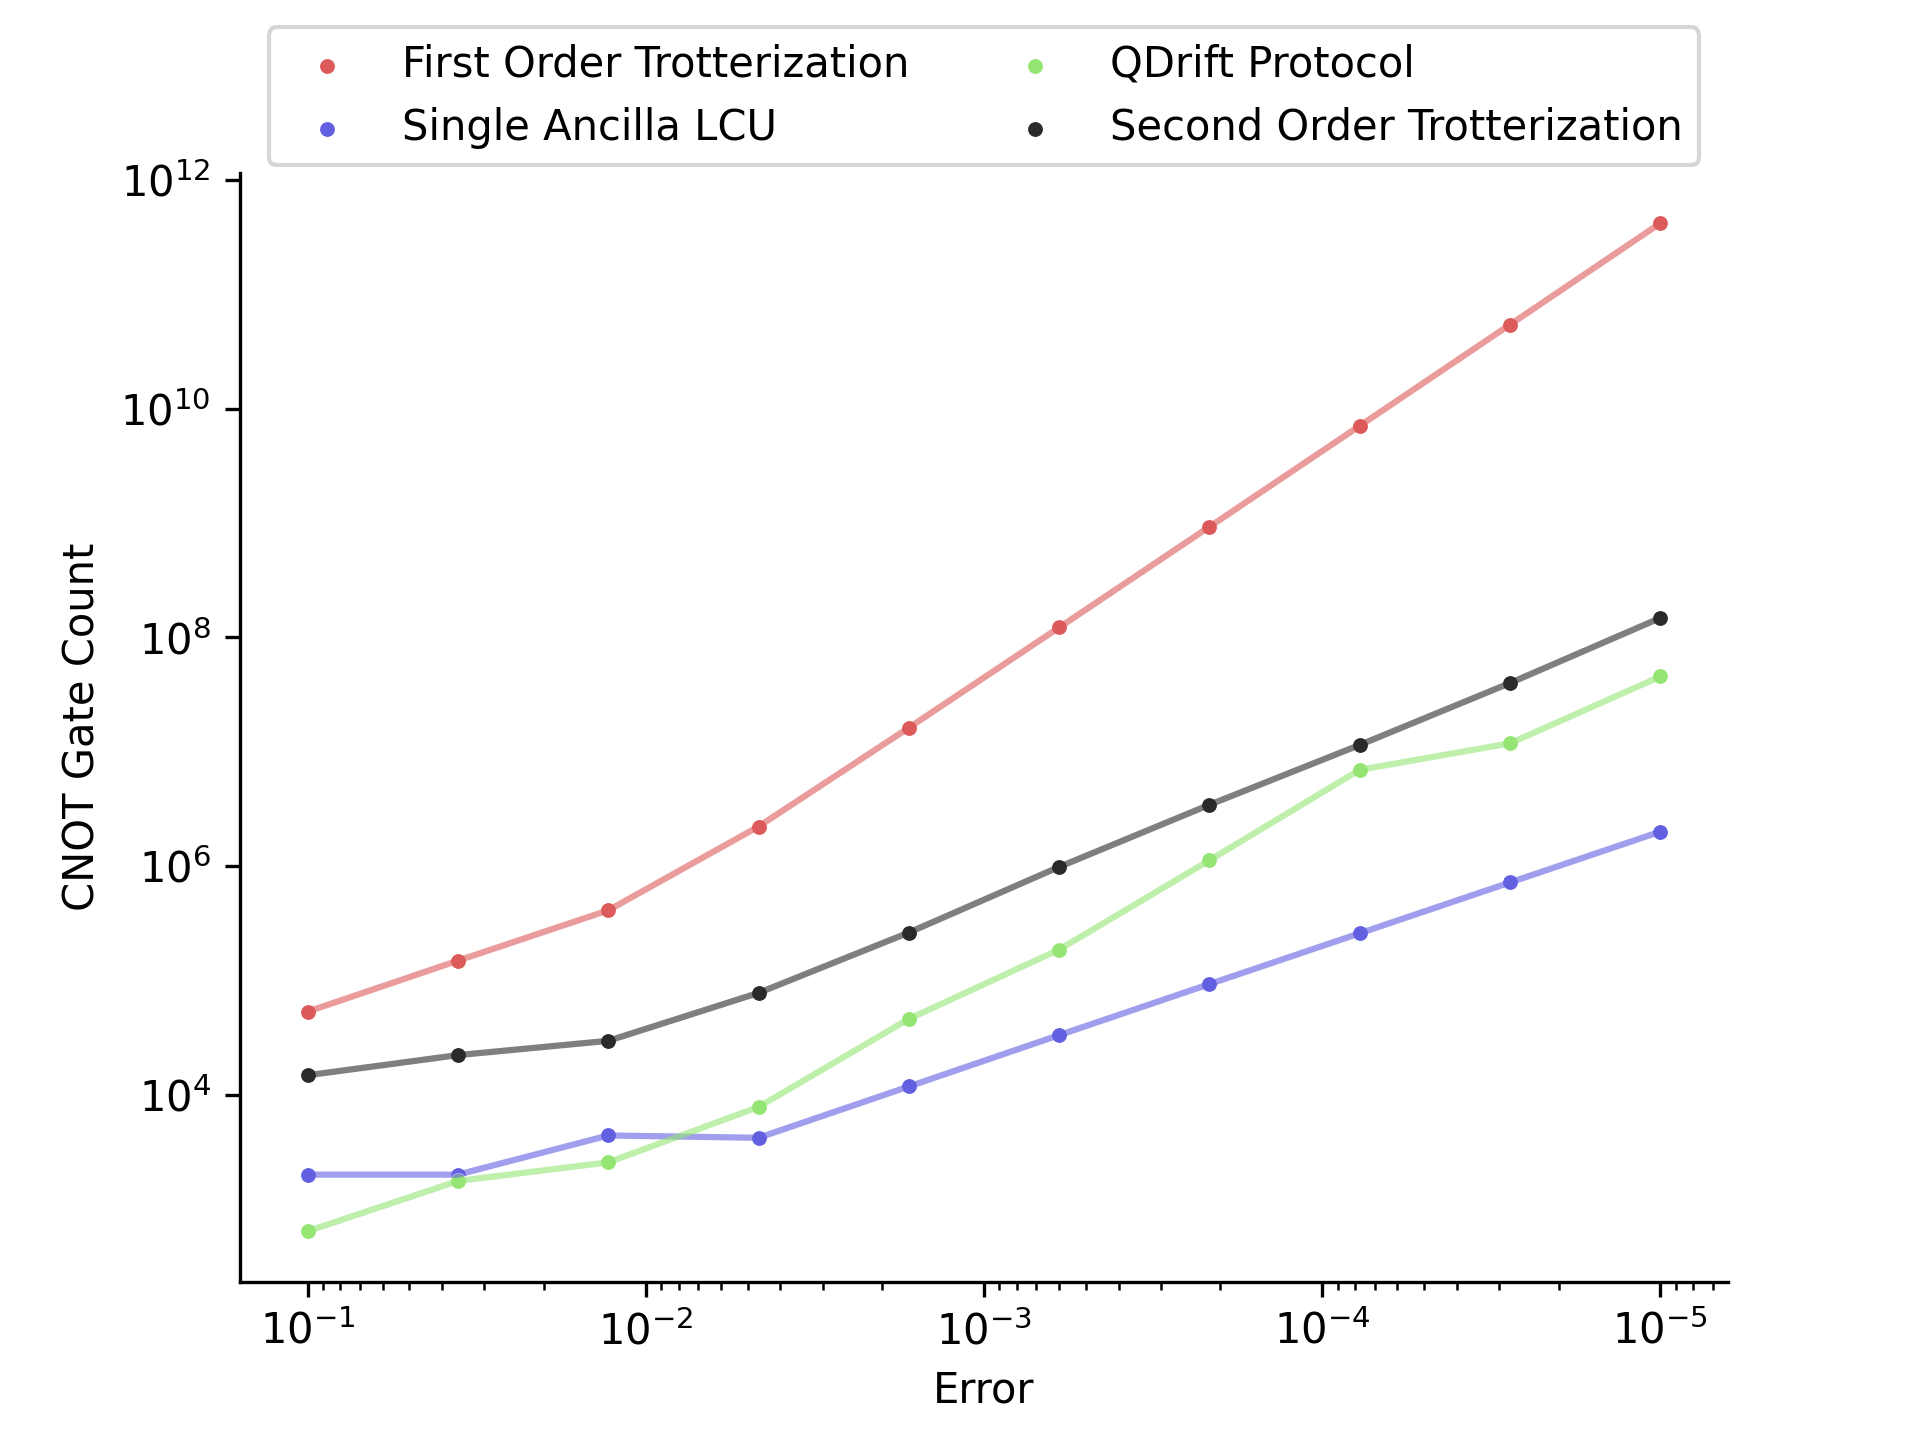
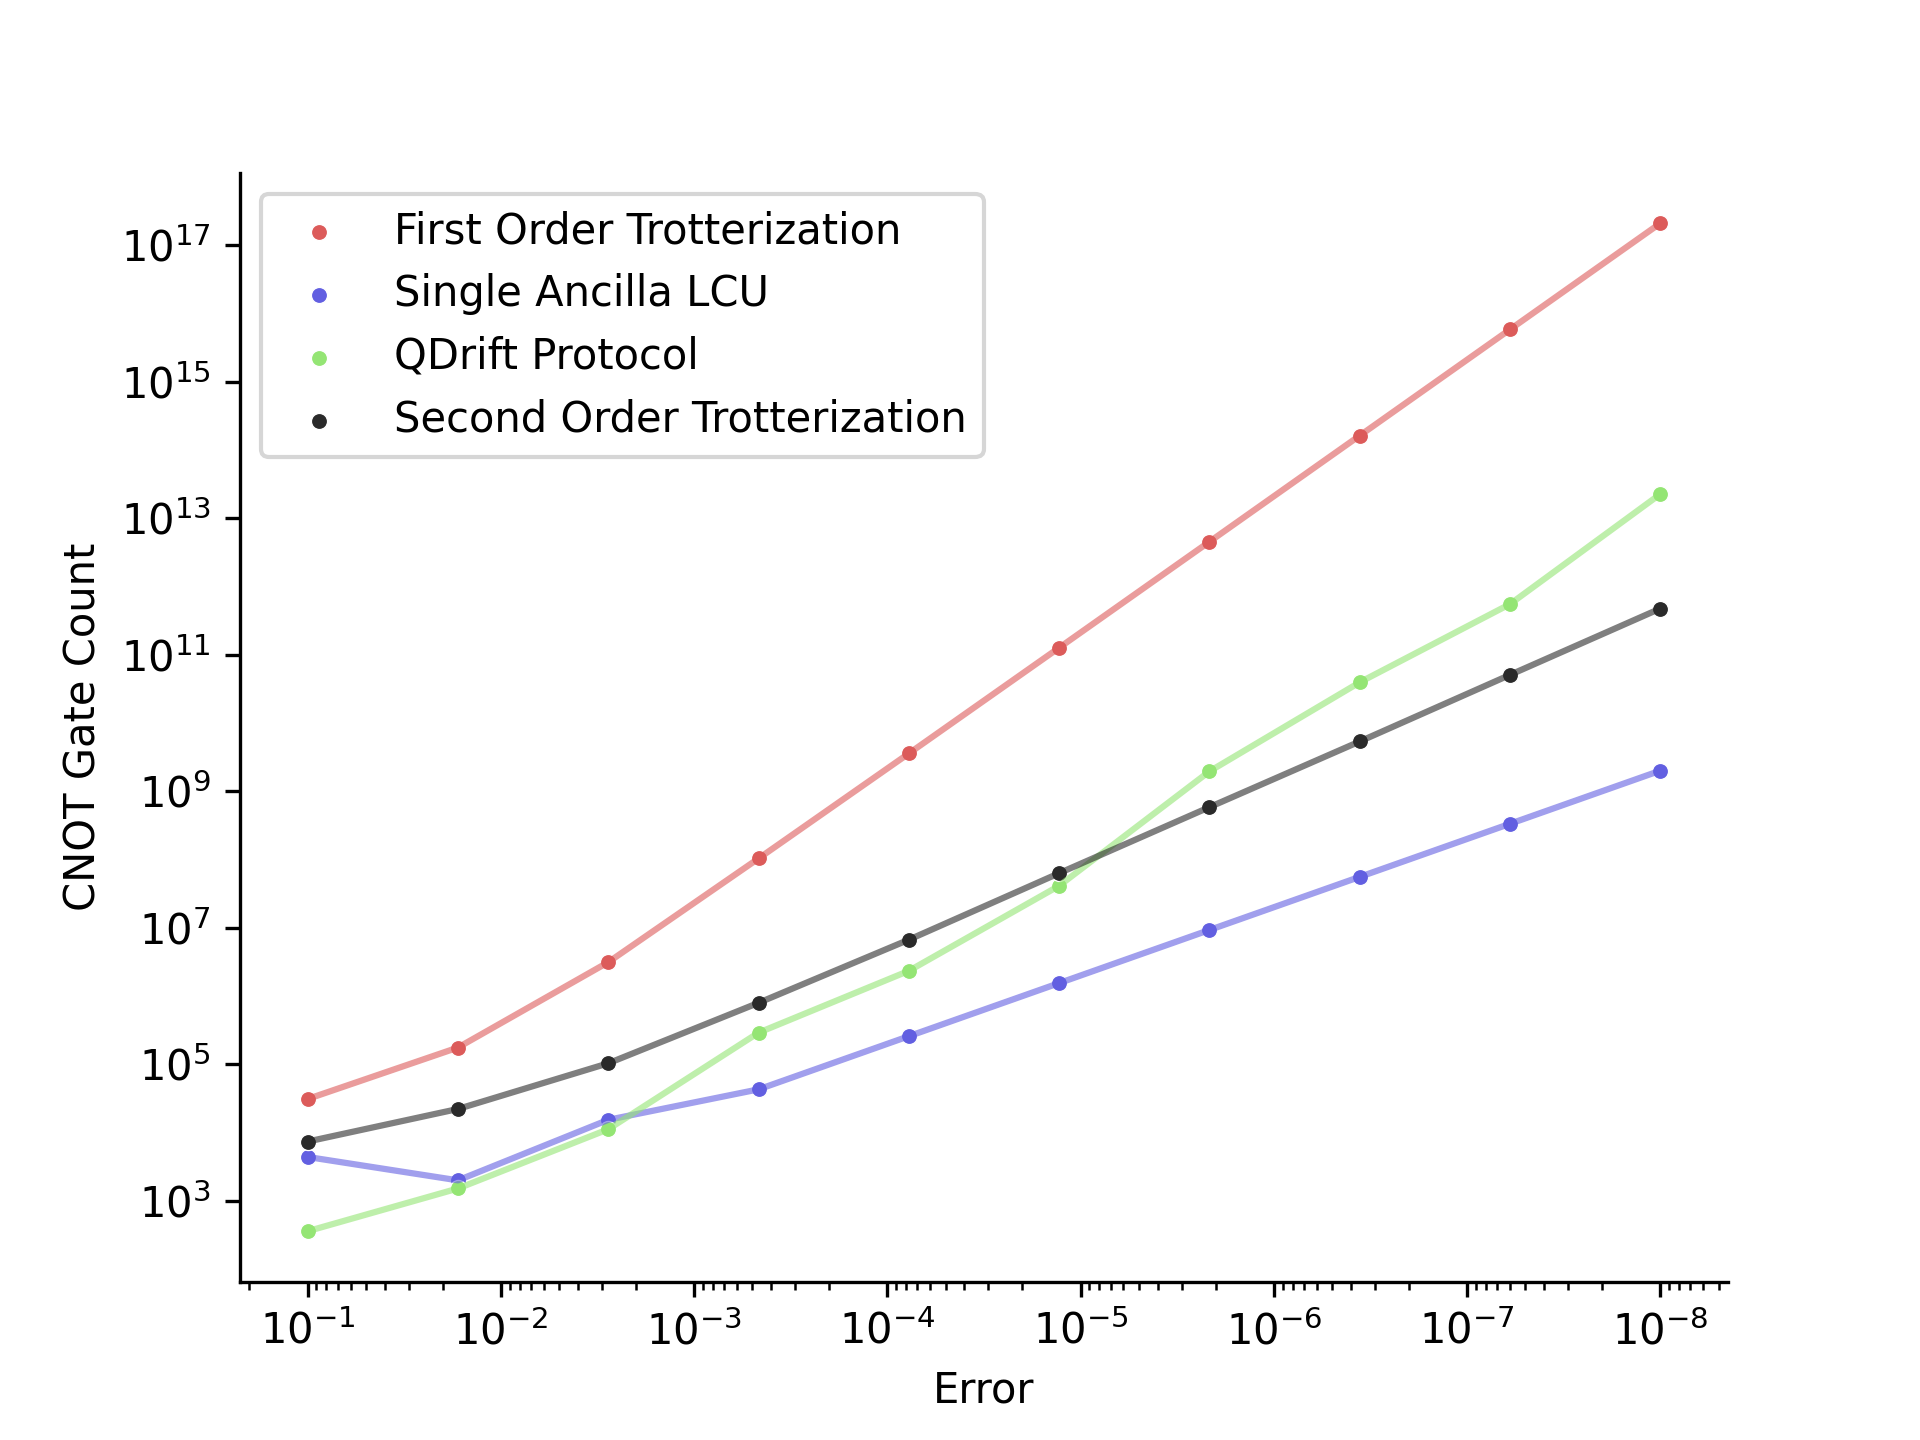
added benchmark plot

diff --git a/ising/benchmark/lines/plot_lind_error_vs_cx.py b/ising/benchmark/lines/plot_lind_error_vs_cx.py
@@ -66,9 +66,10 @@ def test_main():
 
     ax.invert_xaxis()
 
-    file_name = f"plots/benchmark/lines/lindi/error_size_{QUBIT_COUNT}.png"
+    file_name = f"plots/benchmark/lines/lindi/no_label_error_size_{QUBIT_COUNT}.png"
 
-    plt.legend(loc="upper center", bbox_to_anchor=(0.5, 1.15), ncol=2, fontsize=10)
+    ax.get_legend().remove()
+    # plt.legend(loc="upper center", bbox_to_anchor=(0.5, 1.15), ncol=2, fontsize=10)
     plt.savefig(file_name, dpi=300)
     print(f"saved the plot to {file_name}")
 

diff --git a/ising/benchmark/lines/lind_error_vs_cx.py b/ising/benchmark/lines/lind_error_vs_cx.py
@@ -23,7 +23,7 @@ QUBIT_COUNT = 5
 GAMMA = 0.5
 H_VAL = 0.1
 TIME = 0.1
-ERROR_RANGE = (-1, -5)
+ERROR_RANGE = (-1, -8)
 ERROR_COUNT = 10
 
 
@@ -36,7 +36,7 @@ def test_main():
     ham_sys = parametrized_ising(QUBIT_COUNT, H_VAL).sparse_repr
 
     # QUBIT_COUNT + 1 size Hamiltonians
-    ham_ints_sparse = load_interaction_hams(QUBIT_COUNT)
+    ham_ints_sparse = load_interaction_hams(QUBIT_COUNT, GAMMA)
 
     big_ham_sys = SparsePauliOp([x.to_label() + "I" for x in ham_sys.paulis], ham_sys.coeffs)
 
